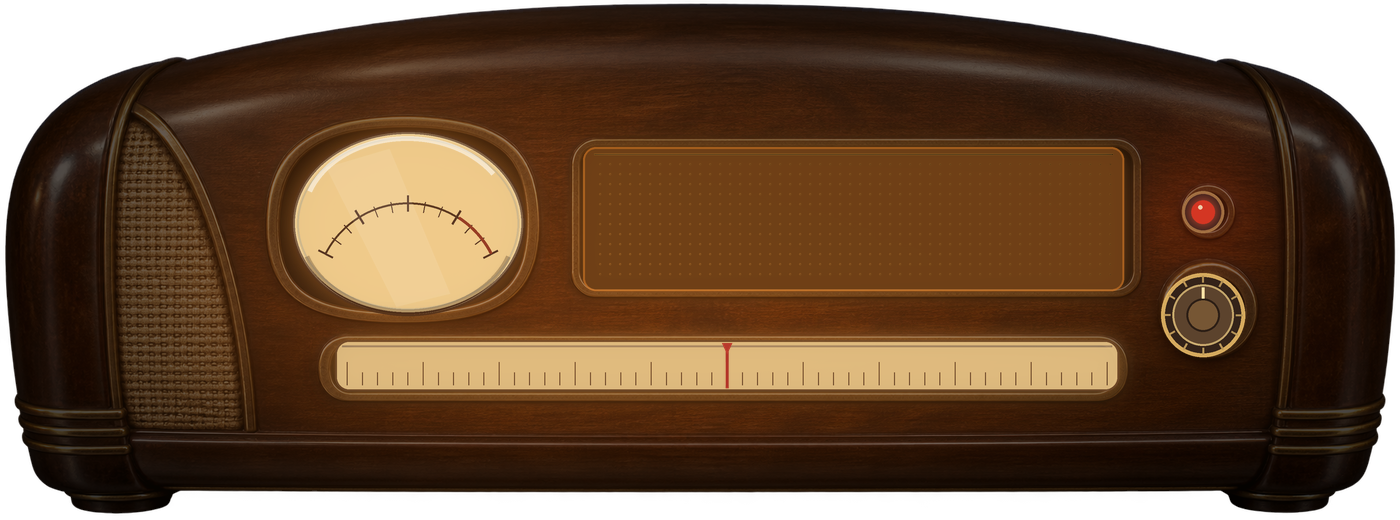
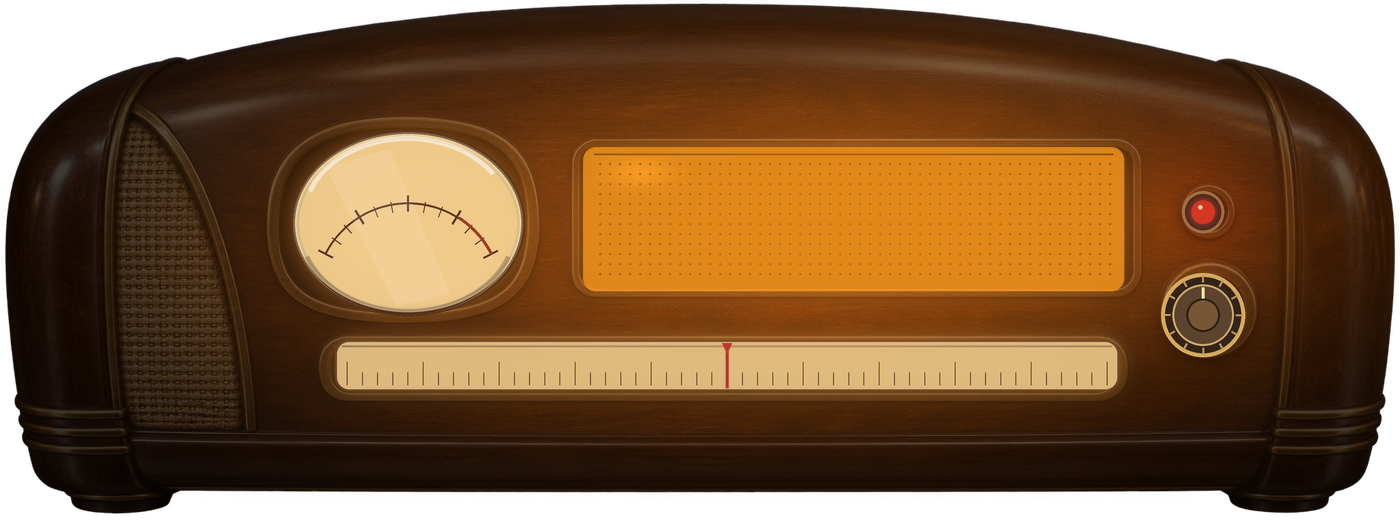
Radio yhtenä kuvana: Codexin v3 (omistaja 29.9.2026 klo 18.51, päätösloki "PUURADIO V3 KÄYTTÖÖN, V4 HYLÄTTY": "Se vanhempi versio kolme, radio on parempi kuin tämä uusi. Käytetään sitä, vaikka onkin vielä huono."), tumma näyttömuste 2cd27b8c; tuonti tyokalut/radio_yksikuva.py.

diff --git a/Assets/Matkakirja/UI/Linssit/RadioNakyma.Codex.cs b/Assets/Matkakirja/UI/Linssit/RadioNakyma.Codex.cs
@@ -1,6 +1,6 @@
 // CODEXIN PUURADIO YHTENÄ KUVANA (omistaja 29.9.2026: "Radio on aina päällä, joten ei tarvitse kikkailla tasojen kanssa,
 // vaan Codex voi suoraan tehdä yhden kuvan. Ainut, mikä jätetään tyhjäksi, on VU-mittarin neula, joka animoidaan, sekä
-// näytön teksti."; Codexin toimitus ~/Documents/Codex/2026-09-29/radio-yksikuva/<versio>, manifest.json, tuonti
+// näytön teksti."; Codexin toimitus ~/Documents/Codex/2026-09-29/radio-yksikuva/v3, manifest.json, tuonti
 // tyokalut/radio_yksikuva.py): iPad 1400 × 520 ja iPhone 1100 × 600, valaistu radio.png (lamput valaisevat puuta, runko
 // varjossa, ohut sinertävä reunavalo) ja VU-neula 160 × 160 -rajauksena (akseli rajauksen keskellä = vu_needle_pivot).
 // Pelin omat osat kuvan päällä: pistenäyttö display_text_safe_boundsiin (kuvan pistepohja korvaa sammuneet pisteet),
